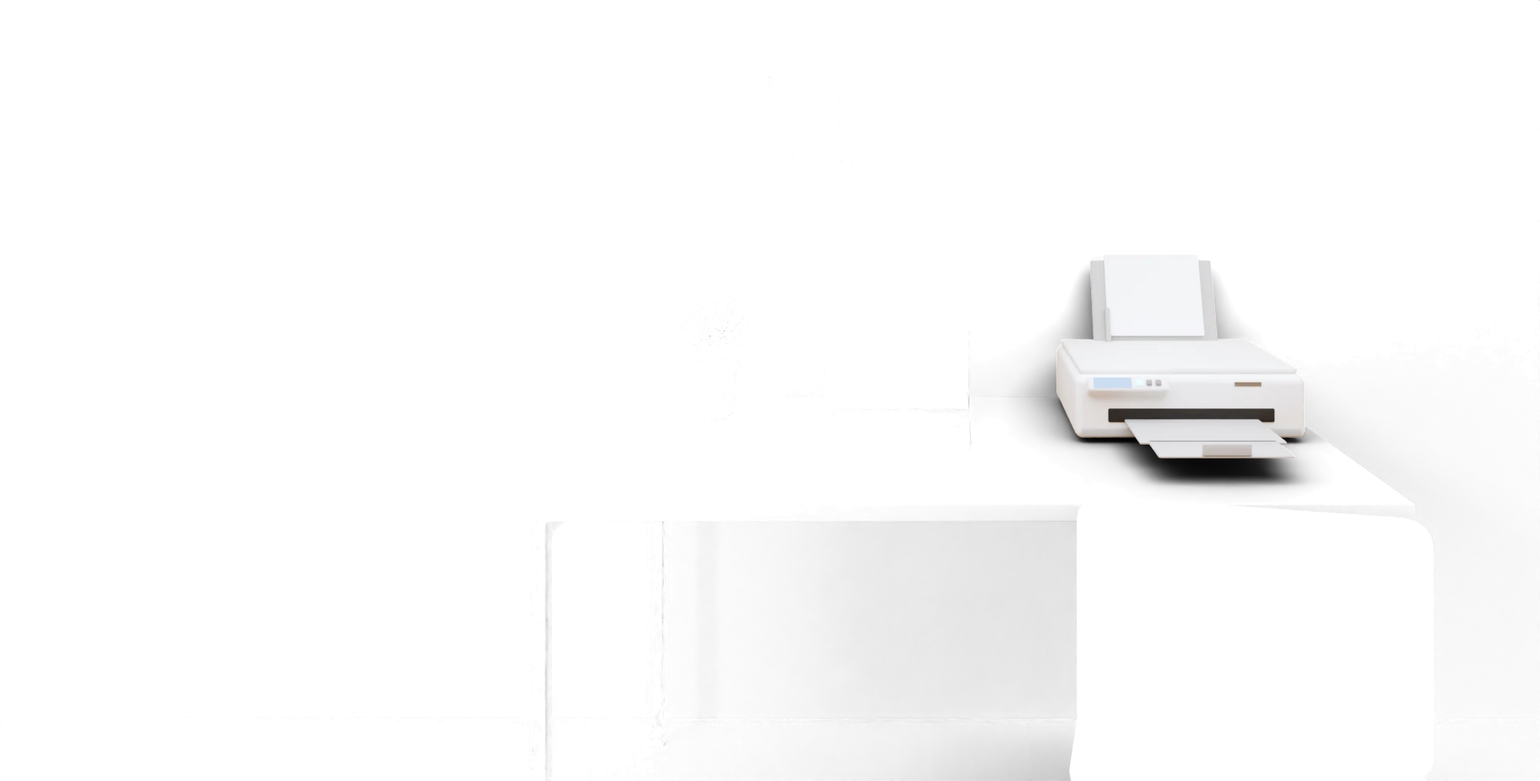
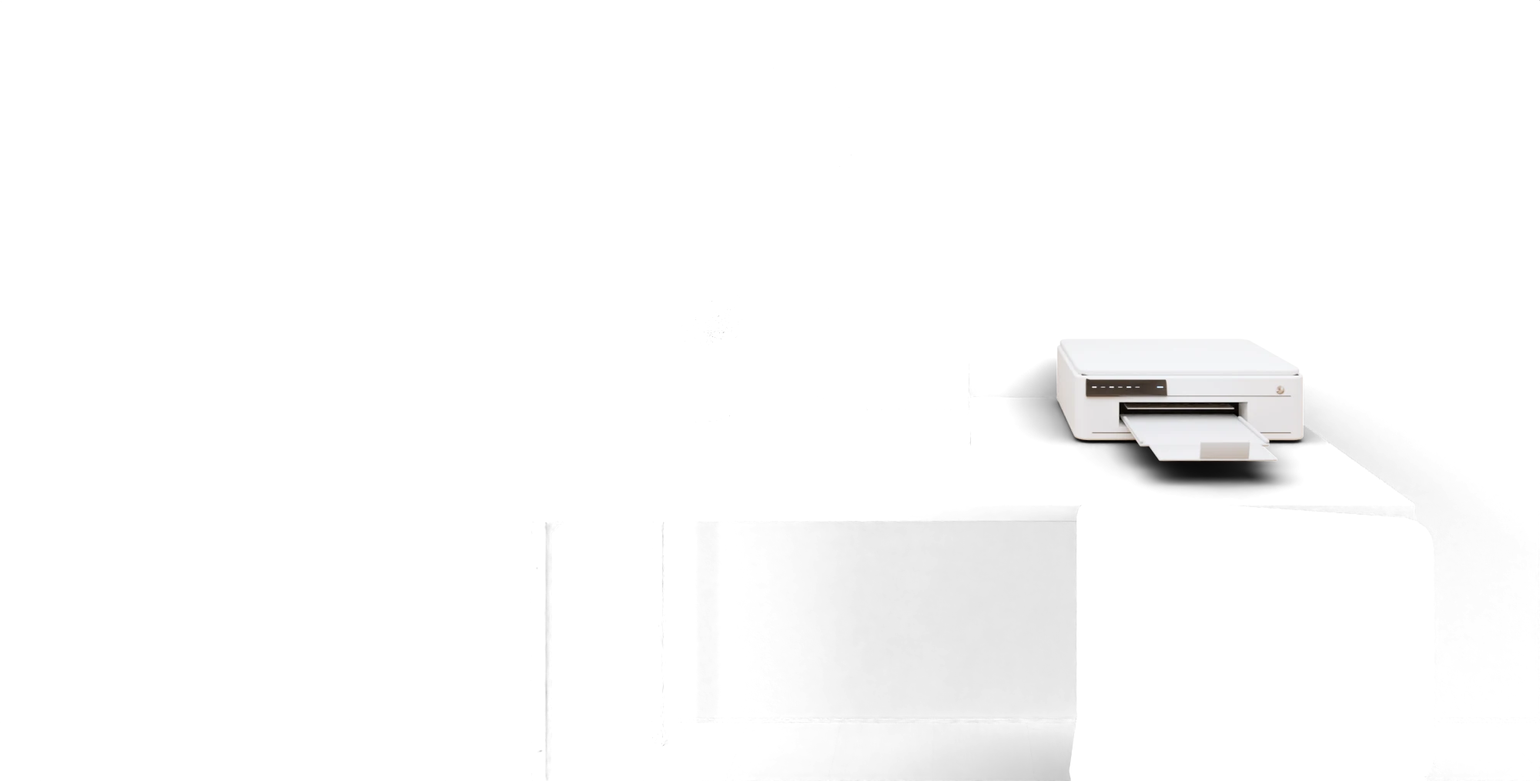
Printer-keuzehulp: realistischere printers
Inkjet (thuis/foto) en laser (zakelijk) opnieuw opgebouwd naar echte apparaten: afgeronde
verticale hoeken met strakke bovenrand, verzonken uitvoeropening met uitschuiflade,
verlengstuk en papierstop, naadlijnen van voorklep en cassette, glanzend zwart paneel met
witte lichtjes (foto: kleurenscherm), EcoTank-tankvenster met streepjes; laser met
uitvoerbak, grote voorklep, cassette met papierniveau en schuin LCD/touchscreen.
Zelfde plaatsing en maten, dus de vellen en punten op de pagina kloppen nog.

Changed region(s): [[0.682, 0.336, 0.868, 0.6414]]

diff --git a/tools/3d-render/printer/scene.py b/tools/3d-render/printer/scene.py
@@ -334,35 +334,50 @@ for o in _lid:
     o.data.transform(Matrix.Translation(o.location - hv))
     o.location = hv
 
-# ── printers, gemodelleerd naar echte apparaten ──
-# inkjet (thuis/foto): onderkast + scannerunit met naad, gestructureerd deksel,
-#   kantelbaar bedieningspaneel met kleurenscherm, uitvoerlade met verlengstuk en
-#   papierstop, papierinvoer achterop die schuin omhoog steekt.
-# laser (zakelijk): papierlade onderin, uitvoerruimte onder de scanner (die op een
-#   zijkolom rust), documentinvoer bovenop, schuin touchscreen.
+# ── printers, gemodelleerd naar echte apparaten (v2, oktober 2026) ──
+# Wordt door scene.py ingelezen. Zelfde plaatsing en maten als v1, zodat de overlays in
+# vragen.js (vellen op de lade/uitvoerbak, punten voor display/ADF/bluetooth) blijven kloppen.
+#
+# inkjet thuis (wit) en foto (zwart), naar HP DeskJet/ENVY en Canon PIXMA:
+#   kast met afgeronde verticale hoeken en strakke bovenrand, verzonken uitvoeropening
+#   met uitschuifbare lade (verlengstuk + papierstop), naadlijnen van voorklep en cassette,
+#   glanzend zwart bedieningspaneel met witte lichtjes (foto: kleurenscherm), scanner
+#   met gestructureerd deksel en greepinkeping, inkttanks rechtsvoor (EcoTank-stijl).
+# laser zakelijk (wit/grijs), naar HP LaserJet Pro en Brother HL/MFC:
+#   uitvoerbak in de bovenkant met opstaande rand en papierstop, grote voorklep met
+#   greep, papiercassette met papierniveau-venster, schuin LCD-paneel; als all-in-one met
+#   uitvoerruimte onder de scanner, zijkolom, documentinvoer en schuin touchscreen.
 PX = 0.44
 YB = -0.06
 
-def plastic(name, color, rough=0.45, grain=0.06, metal=0.0):
+def plastic(name, color, rough=0.45, grain=0.06, metal=0.0, coat=0.0, scale=1400):
     """Kunststof met een fijne korrel (voorkomt het gladde 'CG'-uiterlijk)."""
     m = bpy.data.materials.new(name); m.use_nodes = True
     N = m.node_tree.nodes; L = m.node_tree.links
     b = N["Principled BSDF"]
     b.inputs["Base Color"].default_value = (*color, 1); b.inputs["Roughness"].default_value = rough
-    b.inputs["Metallic"].default_value = metal
-    tc = N.new("ShaderNodeTexCoord"); nz = N.new("ShaderNodeTexNoise"); nz.inputs["Scale"].default_value = 1400
+    b.inputs["Metallic"].default_value = metal; b.inputs["Coat Weight"].default_value = coat
+    tc = N.new("ShaderNodeTexCoord"); nz = N.new("ShaderNodeTexNoise"); nz.inputs["Scale"].default_value = scale
     bu = N.new("ShaderNodeBump"); bu.inputs["Strength"].default_value = grain; bu.inputs["Distance"].default_value = 0.0004
     L.new(tc.outputs["Object"], nz.inputs["Vector"]); L.new(nz.outputs["Fac"], bu.inputs["Height"]); L.new(bu.outputs["Normal"], b.inputs["Normal"])
     return m
 
-M_SEAM = flat("p_seam", (0.015, 0.015, 0.016), 0.7)
-M_SLOT = flat("p_slot", (0.008, 0.008, 0.009), 0.85)
-M_GLOSS = flat("p_gloss", (0.02, 0.02, 0.022), 0.08)
+def glow(name, color, strength, base=(0.02, 0.02, 0.022)):
+    m = bpy.data.materials.new(name); m.use_nodes = True
+    b = m.node_tree.nodes["Principled BSDF"]
+    b.inputs["Base Color"].default_value = (*base, 1); b.inputs["Roughness"].default_value = 0.2
+    b.inputs["Emission Color"].default_value = (*color, 1); b.inputs["Emission Strength"].default_value = strength
+    return m
+
+M_SEAM = flat("p_seam", (0.012, 0.012, 0.013), 0.7)
+M_SLOT = flat("p_slot", (0.006, 0.006, 0.007), 0.9)
 M_PAPER = flat("p_paper", (0.93, 0.93, 0.91), 0.7)
-M_LCD = flat("p_lcd", (0.02, 0.03, 0.05), 0.05, emission=(0.35, 0.6, 1.0), estrength=0.7)
-M_LCD2 = flat("p_lcd2", (0.02, 0.03, 0.05), 0.05, emission=(0.9, 0.95, 1.0), estrength=0.5)
-M_BTN = flat("p_btn", (0.2, 0.2, 0.21), 0.4)
-M_PWR = flat("p_pwr", (0.1, 0.1, 0.1), 0.4, emission=(0.3, 0.8, 1.0), estrength=2)
+M_GLASSBLK = plastic("p_glassblk", (0.008, 0.008, 0.009), 0.08, grain=0.0, coat=1.0)
+M_ICON = glow("p_icon", (1.0, 1.0, 1.0), 1.4)
+M_ICON_DIM = glow("p_icon_dim", (1.0, 1.0, 1.0), 0.35)
+M_PWR = glow("p_pwr", (0.35, 0.75, 1.0), 2.5)
+M_RUB = flat("p_rub", (0.02, 0.02, 0.02), 0.8)
+M_CHROME = flat("p_chrome", (0.75, 0.75, 0.77), 0.18, 1.0)
 
 def rot_x(objs, pivot, deg):
     pv = Vector(pivot)
@@ -370,6 +385,53 @@ def rot_x(objs, pivot, deg):
         o.data.transform(Matrix.Translation(o.location - pv))
         o.location = pv
         o.rotation_euler = (math.radians(deg), 0, 0)
+
+def rbox(name, x0, x1, y0, y1, z0, z1, r, mat, edge=0.003, segs=8):
+    """Blok met afgeronde verticale hoeken (straal r) en een smalle afronding op de
+    boven- en onderrand: de vorm van een echt apparaat i.p.v. een overal ronde zeep."""
+    bm_ = bmesh.new()
+    pts = []
+    for cx, cy, a0 in ((x1 - r, y1 - r, 0), (x0 + r, y1 - r, 90), (x0 + r, y0 + r, 180), (x1 - r, y0 + r, 270)):
+        for i in range(segs + 1):
+            a = math.radians(a0 + 90 * i / segs)
+            pts.append((cx + r * math.cos(a), cy + r * math.sin(a)))
+    bot = [bm_.verts.new((x, y, z0)) for x, y in pts]
+    top = [bm_.verts.new((x, y, z1)) for x, y in pts]
+    bm_.faces.new(list(reversed(bot))); bm_.faces.new(top)
+    n = len(pts)
+    for i in range(n):
+        bm_.faces.new((bot[i], bot[(i + 1) % n], top[(i + 1) % n], top[i]))
+    me = bpy.data.meshes.new(name); bm_.to_mesh(me); bm_.free()
+    o = bpy.data.objects.new(name, me); scene.collection.objects.link(o); me.materials.append(mat)
+    if edge:
+        bv = o.modifiers.new("bev", "BEVEL"); bv.width = edge; bv.segments = 3
+        bv.limit_method = "ANGLE"; bv.angle_limit = math.radians(60)
+    for p in me.polygons:
+        p.use_smooth = True
+    # alleen afgevlakt waar het rond hoort: harde randen boven/onder behouden
+    bpy.ops.object.select_all(action="DESELECT"); o.select_set(True); bpy.context.view_layer.objects.active = o
+    try:
+        bpy.ops.object.shade_smooth_by_angle(angle=math.radians(40))
+    except Exception:
+        pass
+    return o
+
+def carve(obj, x0, x1, y0, y1, z0, z1):
+    """Verzonken uitsparing (bv. de uitvoeropening) echt uit de kast snijden."""
+    c = box("cut_" + obj.name, x0, x1, y0, y1, z0, z1, M_SLOT)
+    bpy.context.view_layer.objects.active = obj
+    keep = [m_ for m_ in obj.modifiers]
+    for m_ in keep:
+        bpy.ops.object.modifier_apply(modifier=m_.name)
+    bo = obj.modifiers.new("hole", "BOOLEAN"); bo.operation = "DIFFERENCE"; bo.object = c; bo.solver = "EXACT"
+    bpy.ops.object.modifier_apply(modifier=bo.name)
+    bpy.data.objects.remove(c)
+    return obj
+
+def icon_dot(name, x, y, z, r, mat):
+    o = cyl(name, r, 0, 0.0008, 0, 0, mat, 24)
+    o.rotation_euler = (math.radians(90), 0, 0); o.location = (x, y, z)
+    return o
 
 prn = []
 lay = A.layer
@@ -384,117 +446,174 @@ def inkjet(k, aio_, part):
     yf = YB - d
     hb = 0.125                         # hoogte onderkast
     top = DZ + hb + (0.052 if aio_ else 0.012)
-    M_B = plastic("ink_body", (0.03, 0.03, 0.032) if foto else (0.82, 0.82, 0.8), 0.38 if foto else 0.45)
-    M_A = plastic("ink_accent", (0.13, 0.13, 0.14) if foto else (0.36, 0.37, 0.38), 0.4)
-    M_LID = plastic("ink_lid", (0.05, 0.05, 0.055) if foto else (0.7, 0.7, 0.69), 0.55, grain=0.25)
+    if foto:
+        M_B = plastic("ink_body", (0.022, 0.022, 0.024), 0.32, coat=0.25)
+        M_T = plastic("ink_trim", (0.06, 0.06, 0.065), 0.42)
+        M_LID = plastic("ink_lid", (0.03, 0.03, 0.033), 0.6, grain=0.35, scale=600)
+        M_TRAY = plastic("ink_tray", (0.05, 0.05, 0.055), 0.35)
+    else:
+        M_B = plastic("ink_body", (0.86, 0.86, 0.85), 0.42)
+        M_T = plastic("ink_trim", (0.42, 0.43, 0.44), 0.45)
+        M_LID = plastic("ink_lid", (0.8, 0.8, 0.79), 0.6, grain=0.35, scale=600)
+        M_TRAY = plastic("ink_tray", (0.56, 0.57, 0.58), 0.4)
+    # uitvoeropening links van het midden; rechts is plaats voor de inkttanks
+    ox0, ox1 = PX - 0.135, PX + 0.105
     out = []
     if part == "body":
-        out.append(box("ink_base", x0, x1, yf, YB, DZ + 0.008, DZ + hb, M_B, bevel=0.016, segs=6))
+        base = rbox("ink_base", x0, x1, yf, YB, DZ + 0.006, DZ + hb, 0.026, M_B, edge=0.004)
+        carve(base, ox0, ox1, yf - 0.02, yf + 0.06, DZ + 0.03, DZ + 0.078)
+        out.append(base)
+        # binnenkant van de opening: donker, met de papiergeleiding achterin
+        out.append(box("ink_cav_back", ox0, ox1, yf + 0.056, yf + 0.06, DZ + 0.03, DZ + 0.078, M_SLOT))
+        out.append(box("ink_cav_roof", ox0, ox1, yf, yf + 0.06, DZ + 0.0765, DZ + 0.078, M_SLOT))
+        out.append(box("ink_cav_paper", ox0 + 0.02, ox1 - 0.02, yf + 0.02, yf + 0.056, DZ + 0.06, DZ + 0.0615, M_PAPER))
+        # uitschuifbare lade met zijranden, verlengstuk en opgeklapte papierstop
+        out.append(box("ink_tray", ox0 + 0.01, ox1 - 0.01, yf - 0.15, yf + 0.05, DZ + 0.038, DZ + 0.043, M_TRAY, bevel=0.002, segs=2))
+        for sx in (ox0 + 0.01, ox1 - 0.016):
+            out.append(box("ink_tray_rail", sx, sx + 0.006, yf - 0.15, yf + 0.01, DZ + 0.043, DZ + 0.049, M_TRAY, bevel=0.002, segs=2))
+        out.append(box("ink_tray_ext", ox0 + 0.025, ox1 - 0.025, yf - 0.232, yf - 0.145, DZ + 0.0385, DZ + 0.042, M_TRAY, bevel=0.0015, segs=2))
+        stop = [box("ink_stop", PX - 0.045, PX + 0.035, -0.002, 0.002, 0, 0.03, M_TRAY, bevel=0.0015, segs=2)]
+        for o in stop:
+            o.location = (o.location.x, o.location.y + yf - 0.23, o.location.z + DZ + 0.042)
+        rot_x(stop, (0, yf - 0.23, DZ + 0.042), 12)
+        out += stop
+        # naadlijnen: voorklep boven de opening, papiercassette onderin, ventilatiesleuf
+        out.append(box("ink_seam_door", x0 + 0.03, x1 - 0.03, yf - 0.0005, yf + 0.003, DZ + 0.088, DZ + 0.0895, M_SEAM))
+        out.append(box("ink_seam_cas", x0 + 0.03, x1 - 0.03, yf - 0.0005, yf + 0.003, DZ + 0.02, DZ + 0.0215, M_SEAM))
+        out.append(box("ink_cas_grip", ox0 + 0.08, ox0 + 0.16, yf - 0.0006, yf + 0.003, DZ + 0.011, DZ + 0.018, M_SEAM, bevel=0.002))
         for fx in (x0 + 0.04, x1 - 0.04):
             for fy in (yf + 0.04, YB - 0.04):
-                out.append(cyl("ink_foot", 0.012, DZ, DZ + 0.008, fx, fy, M_SEAM, 16))
-        # accentband onderaan de voorkant
-        out.append(box("ink_band", x0 + 0.01, x1 - 0.01, yf - 0.002, yf + 0.01, DZ + 0.012, DZ + 0.03, M_A, bevel=0.004))
-        # uitvoeropening met lade, verlengstuk en papierstop
-        out.append(box("ink_slot", PX - 0.155, PX + 0.155, yf - 0.003, yf + 0.03, DZ + 0.04, DZ + 0.066, M_SLOT, bevel=0.003))
-        out.append(box("ink_tray", PX - 0.125, PX + 0.125, yf - 0.15, yf + 0.03, DZ + 0.041, DZ + 0.046, M_A, bevel=0.003, segs=2))
-        out.append(box("ink_tray_ext", PX - 0.11, PX + 0.11, yf - 0.23, yf - 0.14, DZ + 0.042, DZ + 0.046, M_A, bevel=0.003, segs=2))
-        out.append(box("ink_stop", PX - 0.04, PX + 0.04, yf - 0.232, yf - 0.226, DZ + 0.046, DZ + 0.066, M_A, bevel=0.002))
-        # naad tussen onderkast en scanner, scannerunit en gestructureerd deksel
+                out.append(cyl("ink_foot", 0.012, DZ, DZ + 0.006, fx, fy, M_RUB, 16))
+        # bovenkant: scanner met gestructureerd deksel (all-in-one) of gesloten afdekkap
         if aio_:
-            out.append(box("ink_seam", x0 + 0.006, x1 - 0.006, yf + 0.006, YB - 0.006, DZ + hb - 0.004, DZ + hb + 0.004, M_SEAM))
-            out.append(box("ink_scan", x0 + 0.002, x1 - 0.002, yf + 0.004, YB, DZ + hb + 0.003, DZ + hb + 0.042, M_B, bevel=0.012, segs=5))
-            out.append(box("ink_lid", x0 + 0.004, x1 - 0.004, yf + 0.006, YB - 0.002, DZ + hb + 0.041, top, M_LID, bevel=0.01, segs=4))
-            out.append(box("ink_lidlip", PX - 0.06, PX + 0.06, yf + 0.003, yf + 0.012, top - 0.012, top - 0.004, M_SEAM, bevel=0.003))
+            out.append(box("ink_seam_scan", x0 + 0.012, x1 - 0.012, yf + 0.008, YB - 0.008, DZ + hb - 0.002, DZ + hb + 0.004, M_SEAM))
+            out.append(rbox("ink_scan", x0 + 0.002, x1 - 0.002, yf + 0.004, YB, DZ + hb + 0.003, DZ + hb + 0.04, 0.024, M_B, edge=0.003))
+            out.append(box("ink_seam_lid", x0 + 0.01, x1 - 0.01, yf + 0.0065, YB - 0.006, DZ + hb + 0.039, DZ + hb + 0.0415, M_SEAM))
+            out.append(rbox("ink_lid", x0 + 0.004, x1 - 0.004, yf + 0.006, YB - 0.002, DZ + hb + 0.041, top, 0.022, M_LID, edge=0.004))
+            out.append(box("ink_lid_notch", PX - 0.05, PX + 0.05, yf + 0.0045, yf + 0.012, top - 0.008, top - 0.002, M_SEAM, bevel=0.003))
         else:
-            out.append(box("ink_cover", x0 + 0.01, x1 - 0.01, yf + 0.02, YB - 0.01, DZ + hb - 0.001, top, M_LID, bevel=0.008, segs=4))
-        # bedieningspaneel: kantelbare strook linksvoor met kleurenscherm en knoppen
-        pz = DZ + hb - 0.035
-        panel = [box("ink_panel", x0 + 0.02, x0 + 0.17, yf - 0.03, yf + 0.004, pz, pz + 0.03, M_B if not foto else M_A, bevel=0.006, segs=4),
-                 box("ink_lcd", x0 + 0.03, x0 + 0.1, yf - 0.031, yf - 0.029, pz + 0.006, pz + 0.025, M_LCD)]
-        for i in range(3):
-            bx = x0 + 0.115 + i * 0.017
-            panel.append(box("ink_btn", bx - 0.0055, bx + 0.0055, yf - 0.034, yf - 0.03, pz + 0.01, pz + 0.021, M_BTN if i else M_PWR, bevel=0.002, segs=2))
-        rot_x(panel, (0, yf, pz), -28)
+            out.append(box("ink_seam_top", x0 + 0.012, x1 - 0.012, yf + 0.008, YB - 0.008, DZ + hb - 0.002, DZ + hb + 0.002, M_SEAM))
+            out.append(rbox("ink_cover", x0 + 0.006, x1 - 0.006, yf + 0.006, YB - 0.004, DZ + hb, top, 0.022, M_LID, edge=0.004))
+        # bedieningspaneel linksboven op de voorrand: glanzend zwart, iets schuin, met lichtjes
+        pz = DZ + hb - 0.034
+        pnl_x0, pnl_x1 = x0 + 0.018, x0 + 0.17
+        panel = [box("ink_panel", pnl_x0, pnl_x1, yf - 0.006, yf + 0.01, pz - 0.004, pz + 0.032, M_GLASSBLK, bevel=0.003, segs=3)]
+        if foto:
+            # kleurenscherm van 2,7 inch met een fotoreeks erop
+            lcd = bpy.data.materials.new("ink_lcd"); lcd.use_nodes = True
+            Nn = lcd.node_tree.nodes; Ll = lcd.node_tree.links; bb = Nn["Principled BSDF"]
+            gr = Nn.new("ShaderNodeTexGradient"); tc = Nn.new("ShaderNodeTexCoord"); ramp = Nn.new("ShaderNodeValToRGB")
+            ramp.color_ramp.elements[0].color = (0.05, 0.25, 0.55, 1); ramp.color_ramp.elements[1].color = (0.95, 0.6, 0.25, 1)
+            Ll.new(tc.outputs["Generated"], gr.inputs["Vector"]); Ll.new(gr.outputs["Fac"], ramp.inputs["Fac"])
+            Ll.new(ramp.outputs["Color"], bb.inputs["Emission Color"]); bb.inputs["Emission Strength"].default_value = 0.9
+            bb.inputs["Base Color"].default_value = (0.01, 0.01, 0.01, 1); bb.inputs["Roughness"].default_value = 0.05
+            panel.append(box("ink_lcd", pnl_x0 + 0.012, pnl_x0 + 0.072, yf - 0.0068, yf - 0.0058, pz + 0.002, pz + 0.027, lcd))
+            ix0 = pnl_x0 + 0.085
+        else:
+            ix0 = pnl_x0 + 0.016
+        # witte aanraaklichtjes (wifi, kopie, annuleren, info) en een blauwe aan/uit-ring
+        n_ic = 4 if foto else 6
+        for i in range(n_ic):
+            panel.append(icon_dot("ink_icon", ix0 + i * 0.016, yf - 0.0066, pz + 0.014, 0.0036, M_ICON if i % 2 == 0 else M_ICON_DIM))
+        panel.append(icon_dot("ink_pwr", pnl_x1 - 0.014, yf - 0.0066, pz + 0.014, 0.005, M_PWR))
+        rot_x(panel, (0, yf, pz), -12)
         out += panel
-        # papierinvoer achterop: schuine steun met papier erin
-        feeder = [box("ink_feed", PX - 0.135, PX + 0.135, -0.004, 0.004, 0, 0.19, M_A, bevel=0.004, segs=3),
-                  box("ink_feed_paper", PX - 0.105, PX + 0.105, -0.012, -0.004, 0.02, 0.2, M_PAPER),
-                  box("ink_feed_guide", PX - 0.11, PX - 0.1, -0.02, -0.004, 0.0, 0.08, M_A, bevel=0.002)]
-        for o in feeder:
-            o.location = (o.location.x, o.location.y + YB - 0.03, o.location.z + top - 0.01)
-        rot_x(feeder, (0, YB - 0.03, top - 0.01), -18)
-        out += feeder
-        # klein logoplaatje op de scanner-/bovenrand
-        out.append(box("ink_logo", PX + 0.08, PX + 0.13, yf - 0.001, yf + 0.001, top - 0.03, top - 0.022, flat("logo", (0.45, 0.45, 0.46), 0.3, 1.0)))
+        # rond embleem rechts op de voorklep (geen merk)
+        out.append(icon_dot("ink_logo", x1 - 0.05, yf - 0.0002, DZ + 0.1, 0.008, M_CHROME))
     elif part == "tank":
-        # geïntegreerd tankvenster rechtsvoor met vier (foto: zes) inktkleuren
+        # EcoTank-stijl: tankvenster rechtsvoor, doorzichtige tanks met inktpeil en streepjes
         inks = [(0.02, 0.02, 0.02), (0.0, 0.55, 0.85), (0.85, 0.05, 0.45), (0.95, 0.8, 0.05)]
         if foto:
             inks += [(0.4, 0.75, 0.95), (0.95, 0.5, 0.75)]
-        wx0 = x1 - 0.028 - 0.016 * len(inks); wx1 = x1 - 0.02
-        out.append(box("tank_frame", wx0 - 0.008, wx1 + 0.008, yf - 0.006, yf + 0.004, DZ + 0.034, DZ + 0.118, plastic("tank_fr", (0.03, 0.03, 0.032), 0.35), bevel=0.004, segs=3))
+        step = 0.013 if foto else 0.016
+        wx1 = x1 - 0.022; wx0 = wx1 - step * len(inks)
+        out.append(box("tank_frame", wx0 - 0.007, wx1 + 0.007, yf - 0.006, yf + 0.004, DZ + 0.03, DZ + 0.112,
+                       plastic("tank_fr", (0.03, 0.03, 0.032), 0.35, coat=0.3), bevel=0.004, segs=3))
         glass = bpy.data.materials.new("tank_glass"); glass.use_nodes = True
-        g = glass.node_tree.nodes["Principled BSDF"]; g.inputs["Base Color"].default_value = (0.8, 0.82, 0.85, 1)
-        g.inputs["Roughness"].default_value = 0.05; g.inputs["Transmission Weight"].default_value = 0.9
+        g = glass.node_tree.nodes["Principled BSDF"]; g.inputs["Base Color"].default_value = (0.85, 0.87, 0.9, 1)
+        g.inputs["Roughness"].default_value = 0.12; g.inputs["Transmission Weight"].default_value = 0.85
         for i, c in enumerate(inks):
-            tx = wx0 + i * 0.016
-            M_T = flat(f"ink{i}", c, 0.2)
-            lvl = 0.035 + 0.035 * ((i * 37) % 10) / 10
-            out.append(box(f"tank_ink{i}", tx + 0.002, tx + 0.013, yf - 0.008, yf - 0.004, DZ + 0.04, DZ + 0.04 + lvl, M_T))
-            out.append(box(f"tank_win{i}", tx + 0.001, tx + 0.014, yf - 0.009, yf - 0.007, DZ + 0.038, DZ + 0.112, glass, bevel=0.002))
+            tx = wx0 + i * step
+            lvl = 0.035 + 0.032 * ((i * 37) % 10) / 10
+            out.append(box(f"tank_ink{i}", tx + 0.0025, tx + step - 0.0025, yf - 0.0085, yf - 0.0045, DZ + 0.038, DZ + 0.038 + lvl, plastic(f"ink{i}", c, 0.15, grain=0.0, coat=0.6)))
+            out.append(box(f"tank_win{i}", tx + 0.0015, tx + step - 0.0015, yf - 0.0095, yf - 0.0075, DZ + 0.036, DZ + 0.104, glass, bevel=0.0015, segs=2))
+            for z_ in (DZ + 0.046, DZ + 0.094):   # min/max-streepje
+                out.append(box("tank_mark", tx + 0.002, tx + 0.005, yf - 0.0098, yf - 0.0094, z_, z_ + 0.001, M_ICON_DIM))
     elif part == "adf":
-        # documentinvoer op het scannerdeksel, met invoerlade en een paar vellen
-        out.append(box("adf_body", x0 + 0.04, x1 - 0.04, yf + 0.03, YB - 0.01, top, top + 0.05, M_B, bevel=0.012, segs=4))
-        out.append(box("adf_tray", PX - 0.12, PX + 0.12, yf + 0.1, YB - 0.02, top + 0.05, top + 0.055, M_A, bevel=0.003))
-        out.append(box("adf_paper", PX - 0.105, PX + 0.105, yf + 0.11, YB - 0.03, top + 0.055, top + 0.058, M_PAPER))
-        out.append(box("adf_slot", PX - 0.12, PX + 0.12, yf + 0.028, yf + 0.032, top + 0.012, top + 0.028, M_SLOT))
+        # documentinvoer op het scannerdeksel: kap links, schuin oplopende invoerlade met papier
+        out.append(rbox("adf_body", x0 + 0.03, x1 - 0.03, yf + 0.03, YB - 0.01, top, top + 0.045, 0.02, M_B, edge=0.004))
+        out.append(rbox("adf_hood", x0 + 0.03, x0 + 0.12, yf + 0.03, YB - 0.01, top + 0.045, top + 0.06, 0.018, M_T, edge=0.004))
+        out.append(box("adf_tray", x0 + 0.13, x1 - 0.04, yf + 0.08, YB - 0.02, top + 0.045, top + 0.048, M_T, bevel=0.002))
+        out.append(box("adf_paperstack", x0 + 0.15, x1 - 0.06, yf + 0.09, YB - 0.025, top + 0.046, top + 0.05, M_PAPER))
+        out.append(box("adf_slot", x0 + 0.13, x1 - 0.05, yf + 0.028, yf + 0.032, top + 0.012, top + 0.028, M_SLOT))
     return out
 
 def laser(aio_):
     w, d = 0.43, 0.43
     x0, x1 = PX - w / 2, PX + w / 2
     yf = YB - d
-    M_B = plastic("las_body", (0.84, 0.84, 0.83), 0.45)
-    M_A = plastic("las_accent", (0.28, 0.29, 0.3), 0.42)
+    M_B = plastic("las_body", (0.86, 0.86, 0.855), 0.45)
+    M_G = plastic("las_grey", (0.33, 0.34, 0.35), 0.45)
+    M_D = plastic("las_dark", (0.06, 0.06, 0.065), 0.4)
     out = []
     body_top = DZ + (0.24 if aio_ else 0.28)
-    out.append(box("las_body", x0, x1, yf + 0.004, YB, DZ + 0.008, body_top, M_B, bevel=0.012, segs=5))
-    # papierlade onderin met greep en naden
-    out.append(box("las_drawer", x0 + 0.012, x1 - 0.012, yf - 0.002, yf + 0.01, DZ + 0.015, DZ + 0.105, M_B, bevel=0.005, segs=3))
-    out.append(box("las_drawer_seam", x0 + 0.01, x1 - 0.01, yf + 0.001, yf + 0.006, DZ + 0.105, DZ + 0.109, M_SEAM))
-    out.append(box("las_grip", PX - 0.06, PX + 0.06, yf - 0.004, yf + 0.002, DZ + 0.085, DZ + 0.097, M_SLOT, bevel=0.004))
-    out.append(box("las_frontpanel", x0 + 0.02, x1 - 0.02, yf - 0.001, yf + 0.004, DZ + 0.13, body_top - 0.02, M_B, bevel=0.004))
-    out.append(box("las_frontseam", x0 + 0.02, x1 - 0.02, yf - 0.002, yf + 0.003, DZ + 0.125, DZ + 0.128, M_SEAM))
+    # kast: grijze onderband (cassette), witte bovenbouw
+    out.append(rbox("las_low", x0, x1, yf + 0.004, YB, DZ + 0.006, DZ + 0.112, 0.02, M_G, edge=0.003))
+    out.append(rbox("las_body", x0, x1, yf + 0.004, YB, DZ + 0.112, body_top, 0.02, M_B, edge=0.004))
+    out.append(box("las_seam_low", x0 + 0.01, x1 - 0.01, yf + 0.002, yf + 0.006, DZ + 0.111, DZ + 0.114, M_SEAM))
+    # papiercassette: greepuitsparing en papierniveau-venster
+    out.append(box("las_cas_grip", PX - 0.07, PX + 0.07, yf + 0.0005, yf + 0.006, DZ + 0.075, DZ + 0.092, M_SLOT, bevel=0.004))
+    out.append(box("las_cas_level", x1 - 0.06, x1 - 0.03, yf + 0.001, yf + 0.006, DZ + 0.03, DZ + 0.075, M_D, bevel=0.002))
+    out.append(box("las_cas_mark", x1 - 0.051, x1 - 0.039, yf, yf + 0.002, DZ + 0.035, DZ + 0.06, M_PAPER))
+    # grote voorklep met naden en greep bovenaan
+    out.append(box("las_door_seam_l", x0 + 0.03, x0 + 0.033, yf + 0.0035, yf + 0.0065, DZ + 0.128, body_top - 0.03, M_SEAM))
+    out.append(box("las_door_seam_r", x1 - 0.033, x1 - 0.03, yf + 0.0035, yf + 0.0065, DZ + 0.128, body_top - 0.03, M_SEAM))
+    out.append(box("las_door_seam_t", x0 + 0.03, x1 - 0.03, yf + 0.0035, yf + 0.0065, body_top - 0.033, body_top - 0.03, M_SEAM))
+    out.append(box("las_door_grip", PX - 0.08, PX + 0.08, yf + 0.0015, yf + 0.007, body_top - 0.055, body_top - 0.042, M_SLOT, bevel=0.004))
+    out.append(icon_dot("las_pwr", x1 - 0.045, yf + 0.0035, DZ + 0.165, 0.005, M_PWR))
     for fx in (x0 + 0.04, x1 - 0.04):
         for fy in (yf + 0.04, YB - 0.04):
-            out.append(cyl("las_foot", 0.012, DZ, DZ + 0.008, fx, fy, M_SEAM, 16))
-    out.append(cyl("las_pwr", 0.006, 0, 0.003, 0, 0, M_PWR, 24))
-    out[-1].rotation_euler = (math.radians(90), 0, 0); out[-1].location = (x1 - 0.035, yf - 0.002, DZ + 0.16)
+            out.append(cyl("las_foot", 0.012, DZ, DZ + 0.006, fx, fy, M_RUB, 16))
     if aio_:
-        # uitvoerruimte onder de scanner: vloer + zijkolom rechts + achterwand
-        out.append(box("las_out_floor", x0 + 0.01, x1 - 0.07, yf + 0.03, YB - 0.02, body_top - 0.004, body_top + 0.002, M_A, bevel=0.003))
-        out.append(box("las_column", x1 - 0.07, x1, yf + 0.004, YB, body_top - 0.01, DZ + 0.31, M_B, bevel=0.01, segs=4))
-        out.append(box("las_back", x0, x1, YB - 0.07, YB, body_top - 0.01, DZ + 0.31, M_B, bevel=0.006))
-        out.append(box("las_scan", x0 + 0.002, x1 - 0.002, yf + 0.006, YB, DZ + 0.305, DZ + 0.35, M_B, bevel=0.012, segs=5))
-        out.append(box("las_scan_seam", x0 + 0.01, x1 - 0.01, yf + 0.006, YB - 0.01, DZ + 0.302, DZ + 0.306, M_SEAM))
-        # documentinvoer (ADF) bovenop
-        out.append(box("las_adf", x0 + 0.01, x1 - 0.01, yf + 0.03, YB - 0.004, DZ + 0.35, DZ + 0.405, M_B, bevel=0.012, segs=4))
-        out.append(box("las_adf_hood", x0 + 0.02, x0 + 0.13, yf + 0.03, YB - 0.01, DZ + 0.4, DZ + 0.415, M_A, bevel=0.008, segs=3))
-        out.append(box("las_adf_tray", x0 + 0.13, x1 - 0.03, yf + 0.08, YB - 0.02, DZ + 0.405, DZ + 0.41, M_A, bevel=0.003))
-        out.append(box("las_adf_paper", x0 + 0.16, x1 - 0.05, yf + 0.09, YB - 0.03, DZ + 0.41, DZ + 0.414, M_PAPER))
-        # schuin touchscreen vooraan
-        pz = DZ + 0.315
-        panel = [box("las_panel", PX + 0.04, PX + 0.17, yf - 0.045, yf + 0.004, pz, pz + 0.012, plastic("las_pnl", (0.06, 0.06, 0.065), 0.35), bevel=0.006, segs=3),
-                 box("las_touch", PX + 0.05, PX + 0.16, yf - 0.04, yf - 0.004, pz + 0.012, pz + 0.0135, M_LCD)]
+        # uitvoerruimte onder de scanner: vloer, zijkolom rechts, achterwand
+        out.append(box("las_out_floor", x0 + 0.012, x1 - 0.072, yf + 0.03, YB - 0.02, body_top - 0.003, body_top + 0.002, M_D, bevel=0.002))
+        out.append(box("las_out_slot", x0 + 0.04, x1 - 0.1, YB - 0.075, YB - 0.07, body_top + 0.01, body_top + 0.02, M_SLOT))
+        out.append(rbox("las_column", x1 - 0.072, x1, yf + 0.004, YB, body_top - 0.01, DZ + 0.31, 0.02, M_B, edge=0.003))
+        out.append(box("las_back", x0, x1 - 0.06, YB - 0.07, YB, body_top - 0.01, DZ + 0.31, M_B, bevel=0.004))
+        out.append(box("las_seam_scan", x0 + 0.01, x1 - 0.01, yf + 0.006, YB - 0.01, DZ + 0.302, DZ + 0.306, M_SEAM))
+        out.append(rbox("las_scan", x0 + 0.002, x1 - 0.002, yf + 0.006, YB, DZ + 0.305, DZ + 0.35, 0.02, M_B, edge=0.004))
+        # documentinvoer (ADF) bovenop: kap links, invoerlade met papier, uitvoerlade eronder
+        out.append(rbox("las_adf", x0 + 0.01, x1 - 0.01, yf + 0.03, YB - 0.004, DZ + 0.35, DZ + 0.395, 0.018, M_B, edge=0.004))
+        out.append(rbox("las_adf_hood", x0 + 0.015, x0 + 0.12, yf + 0.03, YB - 0.01, DZ + 0.395, DZ + 0.415, 0.016, M_G, edge=0.004))
+        out.append(box("las_adf_tray", x0 + 0.125, x1 - 0.025, yf + 0.07, YB - 0.02, DZ + 0.395, DZ + 0.4, M_G, bevel=0.002))
+        out.append(box("las_adf_paper", x0 + 0.15, x1 - 0.045, yf + 0.085, YB - 0.03, DZ + 0.4, DZ + 0.405, M_PAPER))
+        # schuin touchscreen vooraan, glanzend zwart met menu-tegels
+        pz = DZ + 0.312
+        panel = [box("las_panel", PX + 0.03, PX + 0.175, yf - 0.05, yf + 0.004, pz, pz + 0.012, M_GLASSBLK, bevel=0.005, segs=3)]
+        scr = bpy.data.materials.new("las_scr"); scr.use_nodes = True
+        bs = scr.node_tree.nodes["Principled BSDF"]; bs.inputs["Base Color"].default_value = (0.01, 0.01, 0.012, 1)
+        bs.inputs["Emission Color"].default_value = (0.22, 0.42, 0.75, 1); bs.inputs["Emission Strength"].default_value = 0.6
+        panel.append(box("las_touch", PX + 0.04, PX + 0.165, yf - 0.044, yf - 0.006, pz + 0.012, pz + 0.0128, scr))
+        for i in range(3):
+            panel.append(box("las_tile", PX + 0.05 + i * 0.038, PX + 0.08 + i * 0.038, yf - 0.032, yf - 0.016, pz + 0.0129, pz + 0.0132, M_ICON_DIM))
         rot_x(panel, (0, yf, pz), 22)
         out += panel
     else:
-        # uitvoerbak in de bovenkant + klein bedieningspaneel rechts
-        out.append(box("las_bin", PX - 0.13, PX + 0.07, yf + 0.06, YB - 0.1, body_top - 0.012, body_top + 0.001, M_A, bevel=0.004))
-        out.append(box("las_bin_flap", PX - 0.08, PX + 0.02, yf + 0.058, yf + 0.062, body_top, body_top + 0.035, M_A, bevel=0.002))
-        out.append(box("las_panel", PX + 0.1, x1 - 0.02, yf + 0.03, yf + 0.13, body_top - 0.002, body_top + 0.006, M_A, bevel=0.004))
-        out.append(box("las_lcd", PX + 0.11, x1 - 0.03, yf + 0.045, yf + 0.09, body_top + 0.006, body_top + 0.0075, M_LCD))
+        # uitvoerbak in de bovenkant: donker vlak met opstaande rand, papieruitvoer achterin
+        out.append(box("las_bin", PX - 0.14, PX + 0.09, yf + 0.055, YB - 0.075, body_top - 0.001, body_top + 0.001, M_D, bevel=0.003))
+        out.append(box("las_bin_rim", PX - 0.145, PX + 0.095, YB - 0.08, YB - 0.06, body_top, body_top + 0.022, M_B, bevel=0.004))
+        out.append(box("las_bin_slot", PX - 0.12, PX + 0.07, YB - 0.081, YB - 0.078, body_top + 0.004, body_top + 0.012, M_SLOT))
+        out.append(box("las_bin_flap", PX - 0.065, PX + 0.015, yf + 0.052, yf + 0.056, body_top, body_top + 0.03, M_G, bevel=0.002))
+        # LCD-paneel rechts op de bovenkant, iets schuin, met knoppen
+        pz = body_top
+        panel = [box("las_pnl", PX + 0.11, x1 - 0.015, yf + 0.025, yf + 0.13, pz - 0.002, pz + 0.012, M_GLASSBLK, bevel=0.004, segs=3)]
+        lcd = bpy.data.materials.new("las_lcd"); lcd.use_nodes = True
+        bl = lcd.node_tree.nodes["Principled BSDF"]; bl.inputs["Base Color"].default_value = (0.02, 0.03, 0.03, 1)
+        bl.inputs["Emission Color"].default_value = (0.6, 0.8, 0.9, 1); bl.inputs["Emission Strength"].default_value = 0.45
+        panel.append(box("las_lcd", PX + 0.12, x1 - 0.025, yf + 0.07, yf + 0.115, pz + 0.012, pz + 0.0128, lcd))
+        for i in range(3):
+            panel.append(box("las_key", PX + 0.122 + i * 0.022, PX + 0.136 + i * 0.022, yf + 0.035, yf + 0.06, pz + 0.012, pz + 0.0135, M_ICON_DIM, bevel=0.001, segs=1))
+        out += panel
     return out
 
 if kind in ("thuis", "foto"):
